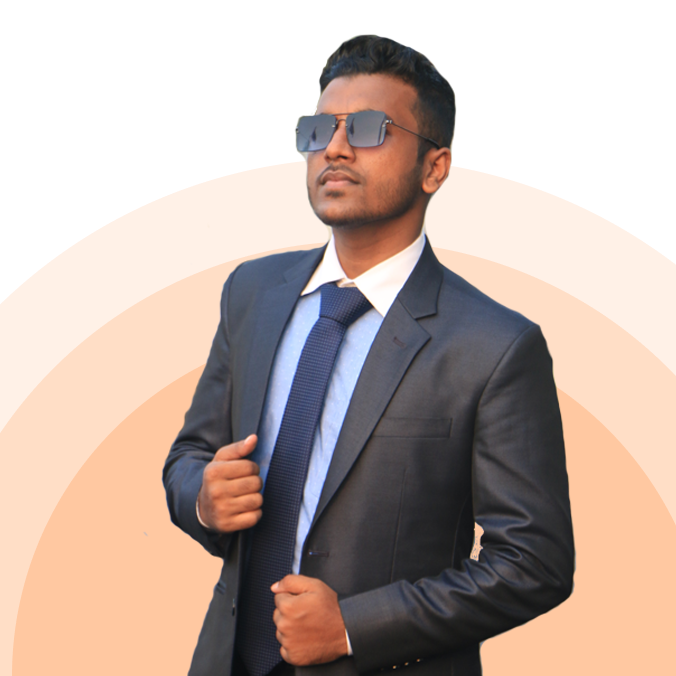
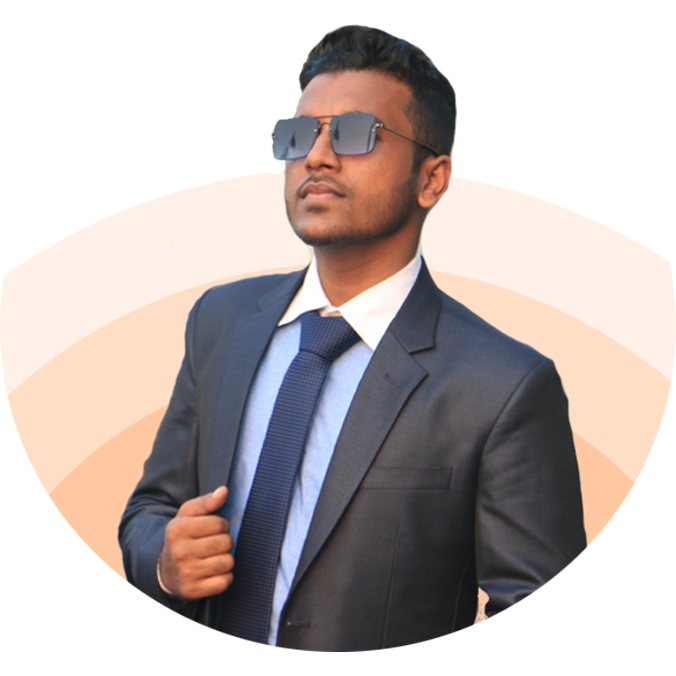
second commit

diff --git a/index.html b/index.html
@@ -24,6 +24,17 @@
         <div>
             <img class="half-width-img" src="images/Sazid.png" alt="">
         </div>
-    </section>  
+    </section> 
+    <section class="dream-big">
+    <div>
+        <img class="half-width-img" src="images/hardy.png" alt="">
+    </div>
+    <div class="half-width">
+        <h1>Dream Big</h1>
+        <h2>Become a web Developer</h2>
+        <p>I, m a designer & developer with a passion for web design. I enjoy developing simple, clean and slick websites that provide real value to the end user. Thousands of clients have procured exceptional resulfs while working with me. Delivering work within time and budget which meets clients requirements in our mata.</p>
+        <a class="link-button" target="_blank" href="https://www.linkedin.com/in/sazid68642/">Download Resume</a>
+    </div> 
+</section>
 </body>
 </html>

diff --git a/main.css b/main.css
@@ -1,6 +1,6 @@
 body{
     font-family: 'Poppins', sans-serif;
-    margin: 0px;
+    margin: 0;
 }
 h1{
     font-size: 50px;
@@ -10,13 +10,14 @@ h1{
 }
 section{
     display: flex;
+    margin-top: 5px;
 }
 .half-width{
     width: 50%;
-    padding-left: 2%;
+    padding-left:5%;
 }
-.half-width img{
-    width: 80%;
+.half-width-img{
+    width: 90%;
 }
 .link-button{
     text-decoration: none;
@@ -27,6 +28,13 @@ section{
     font-weight: 700px;
 }
 .top-banner{
-    background-image: url('images/developer.png');
+    background-image: url('images/Topper.png');
     background-repeat: no-repeat;
+    padding-top: 50px
+}
+.dream-big{
+    background-image: url('images/header_bg.png');
+    background-repeat: no-repeat;
+    background-position: right;
+    background-size: cover;
 }
